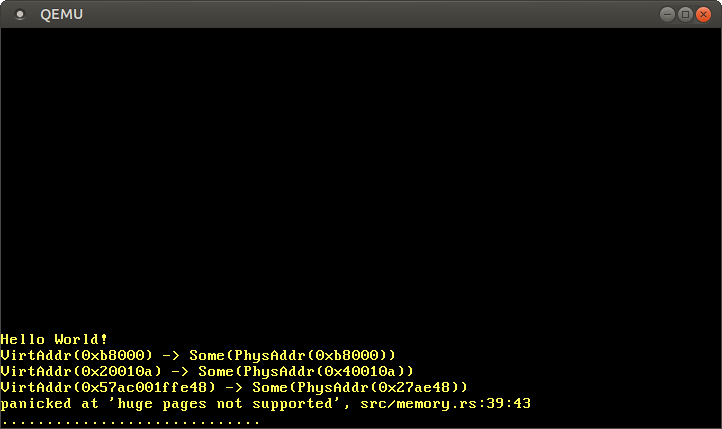
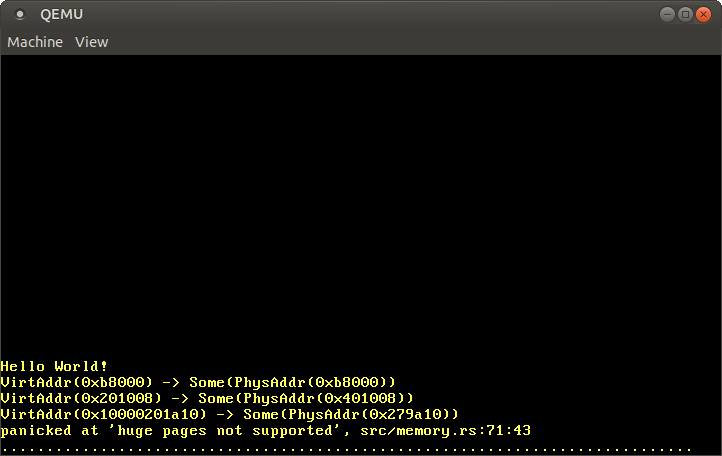
Improve implementation section of Paging Implementation post

Changed region(s): [[0.0, 0.7879, 0.7313, 0.9697], [0.0, 0.0, 1.0, 0.1212]]

diff --git a/blog/content/second-edition/posts/09-paging-implementation/index.md b/blog/content/second-edition/posts/09-paging-implementation/index.md
@@ -459,9 +459,9 @@ We see that there are various non-empty entries, which all map to different leve
 To traverse the page tables further and take a look at a level 3 table, we can take the mapped frame of an entry convert it to a virtual address again:
 
 ```rust
-// in the for loop in src/main.rs
+// in the `for` loop in src/main.rs
 
-use x86_64::{structures::paging::PageTable, VirtAddr};
+use x86_64::structures::paging::PageTable;
 
 if !entry.is_unused() {
     println!("L4 Entry {}: {:?}", i, entry);
@@ -492,7 +492,7 @@ For translating a virtual to a physical address, we have to traverse the four-le
 ```rust
 // in src/memory.rs
 
-use x86_64::{PhysAddr, VirtAddr};
+use x86_64::PhysAddr;
 
 /// Translates the given virtual address to the mapped physical address, or
 /// `None` if the address is not mapped.
@@ -568,6 +568,7 @@ Let's test our translation function by translating some addresses:
 // in src/main.rs
 
 fn kernel_main(boot_info: &'static BootInfo) -> ! {
+    // new imports
     use blog_os::memory::translate_addr;
     use x86_64::VirtAddr;
 
@@ -579,9 +580,9 @@ fn kernel_main(boot_info: &'static BootInfo) -> ! {
         // the identity-mapped vga buffer page
         0xb8000,
         // some code page
-        0x20010a,
+        0x201008,
         // some stack page
-        0x57ac_001f_fe48,
+        0x0100_0020_1a10,
         // virtual address mapped to physical address 0
         boot_info.physical_memory_offset,
     ];
@@ -598,9 +599,13 @@ fn kernel_main(boot_info: &'static BootInfo) -> ! {
 
 When we run it, we see the following output:
 
-![0xb8000 -> 0xb8000, 0x20010a -> 0x40010a, 0x57ac001ffe48 -> 0x27be48, "panicked at 'huge pages not supported'](qemu-translate-addr.png)
+![0xb8000 -> 0xb8000, 0x201008 -> 0x401008, 0x10000201a10 -> 0x279a10, "panicked at 'huge pages not supported'](qemu-translate-addr.png)
 
-As expected, the identity-mapped address `0xb8000` translates to the same physical address. The code page and the stack page translate to some arbitrary physical addresses, which depend on how the bootloader created the initial mapping for our kernel. The translation of the `physical_memory_offset` should point to physical address `0`, but the translation fails because the mapping uses huge pages for efficiency. Future bootloader version might use the same optimization for kernel and stack pages.
+As expected, the identity-mapped address `0xb8000` translates to the same physical address. The code page and the stack page translate to some arbitrary physical addresses, which depend on how the bootloader created the initial mapping for our kernel. It's worth noting that the last 12 bits always stay the same after translation, which makes sense because these bits are the [_page offset_] and not part of the translation.
+
+[_page offset_]: ./second-edition/posts/08-paging-introduction/index.md#paging-on-x86-64
+
+Since each physical address can be accessed by adding the `physical_memory_offset`, the translation of the `physical_memory_offset` address itself should point to physical address `0`. However, the translation fails because the mapping uses huge pages for efficiency, which is not supported in our implementation yet.
 
 ### Using `OffsetPageTable`
 
@@ -618,7 +623,7 @@ The base of the abstraction are two traits that define various page table mappin
 [`translate_addr`]: https://docs.rs/x86_64/0.7.5/x86_64/structures/paging/mapper/trait.MapperAllSizes.html#method.translate_addr
 [`translate`]: https://docs.rs/x86_64/0.7.5/x86_64/structures/paging/mapper/trait.MapperAllSizes.html#tymethod.translate
 
-The traits only define the interface, they don't provide any implementation. The `x86_64` crate currently provides three types that implement the traits with different requirements. The [`OffsetPageTable`] type assumes that the complete physical memory is mapped to the virtual address space at some offset. The [`MappedPageTable`] is a bit more flexible: It only requires that each page table frame is mapped to the virtual address space at a calculatable address. Finally, the [`RecursivePageTable`] type can be used to access page table frames through [recursive page tables](#recursive-page-tables).
+The traits only define the interface, they don't provide any implementation. The `x86_64` crate currently provides three types that implement the traits with different requirements. The [`OffsetPageTable`] type assumes that the complete physical memory is mapped to the virtual address space at some offset. The [`MappedPageTable`] is a bit more flexible: It only requires that each page table frame is mapped to the virtual address space at a calculable address. Finally, the [`RecursivePageTable`] type can be used to access page table frames through [recursive page tables](#recursive-page-tables).
 
 [`OffsetPageTable`]: https://docs.rs/x86_64/0.7.5/x86_64/structures/paging/mapper/struct.OffsetPageTable.html
 [`MappedPageTable`]: https://docs.rs/x86_64/0.7.5/x86_64/structures/paging/mapper/struct.MappedPageTable.html
@@ -627,8 +632,7 @@ The traits only define the interface, they don't provide any implementation. The
 In our case, the bootloader maps the complete physical memory at an virtual address specfied by the `physical_memory_offset` variable, so we can use the `OffsetPageTable` type. To initialize it, we create a new `init` function in our `memory` module:
 
 ```rust
-use x86_64::structures::paging::{PhysFrame, OffsetPageTable};
-use x86_64::{PhysAddr, VirtAddr};
+use x86_64::structures::paging::OffsetPageTable;
 
 /// Initialize a new OffsetPageTable.
 ///
@@ -646,8 +650,6 @@ unsafe fn active_level_4_table(physical_memory_offset: VirtAddr)
     -> &'static mut PageTable
 {…}
 ```
-
-[`impl Trait`]: https://doc.rust-lang.org/book/ch10-02-traits.html#returning-traits
 
 The function takes the `physical_memory_offset` as an argument and returns a new `OffsetPageTable` instance with a `'static` lifetime. This means that the instance stays valid for the complete runtime of our kernel. In the function body, we first call the `active_level_4_table` function to retrieve a mutable reference to the level 4 page table. We then invoke the [`OffsetPageTable::new`] function with this reference. As the second parameter, the `new` function expects the virtual address at which the mapping of the physical memory starts, which is given in the `physical_memory_offset` variable.
 
@@ -669,7 +671,7 @@ fn kernel_main(boot_info: &'static BootInfo) -> ! {
 
     let phys_mem_offset = VirtAddr::new(boot_info.physical_memory_offset);
     // new: initialize a mapper
-    let mut mapper = unsafe { memory::init(phys_mem_offset) };
+    let mapper = unsafe { memory::init(phys_mem_offset) };
 
     let addresses = […]; // same as before
 
@@ -684,11 +686,17 @@ fn kernel_main(boot_info: &'static BootInfo) -> ! {
 }
 ```
 
+We need to import the `MapperAllSizes` trait in order to use the [`translate_addr`] method it provides.
+
 When we run it now, we see the same translation results as before, with the difference that the huge page translation now also works:
 
-![0xb8000 -> 0xb8000, 0x20010a -> 0x40010a, 0x57ac001ffe48 -> 0x27be48, 0xfffffc0000000000 -> 0x0](qemu-mapper-translate-addr.png)
+![0xb8000 -> 0xb8000, 0x201008 -> 0x401008, 0x10000201a10 -> 0x279a10, 0x18000000000 -> 0x0](qemu-mapper-translate-addr.png)
 
-As expected the virtual address `physical_memory_offset` translates to the physical address `0x0`. By using the translation function of the `MappedPageTable` type we can spare ourselves the work of implementing huge page support. We also have access to other page functions such as `map_to`, which we will use in the next section. At this point we no longer need our `memory::translate_addr` function, so you can delete it if you want.
+As expected, the translations of `0xb8000` and the code and stack addresses stay the same as with our own translation function. Additionally, we now see that the virtual address `physical_memory_offset` is mapped to the physical address `0x0`.
+
+By using the translation function of the `MappedPageTable` type we can spare ourselves the work of implementing huge page support. We also have access to other page functions such as `map_to`, which we will use in the next section.
+
+At this point we no longer need our `memory::translate_addr` function, so we can delete it.
 
 ### Creating a new Mapping
 
@@ -701,19 +709,22 @@ We will use the [`map_to`] function of the [`Mapper`] trait for our implementati
 
 #### A `create_example_mapping` Function
 
-The first step of our implementation is to create a new `create_example_mapping` function that maps a given page to `0xb8000`, the physical frame of the VGA text buffer. We choose that frame because it allows us to easily test if the mapping was created correctly: We just need to write to the newly mapped page and see whether we see the write appear on the screen.
+The first step of our implementation is to create a new `create_example_mapping` function that maps a given virtual page to `0xb8000`, the physical frame of the VGA text buffer. We choose that frame because it allows us to easily test if the mapping was created correctly: We just need to write to the newly mapped page and see whether we see the write appear on the screen.
 
 The `create_example_mapping` function looks like this:
 
 ```rust
 // in src/memory.rs
 
-use x86_64::structures::paging::{Page, Size4KiB, Mapper, FrameAllocator};
+use x86_64::{
+    PhysAddr,
+    structures::paging::{Page, PhysFrame, Mapper, Size4KiB, FrameAllocator}
+};
 
 /// Creates an example mapping for the given page to frame `0xb8000`.
 pub fn create_example_mapping(
     page: Page,
-    mapper: &mut impl Mapper<Size4KiB>,
+    mapper: &mut OffsetPageTable,
     frame_allocator: &mut impl FrameAllocator<Size4KiB>,
 ) {
     use x86_64::structures::paging::PageTableFlags as Flags;
@@ -728,16 +739,18 @@ pub fn create_example_mapping(
 }
 ```
 
-In addition to the `page` that should be mapped, the function expects a `mapper` instance and a `frame_allocator`. The `mapper` is a type that implements the `Mapper<Size4KiB>` trait, which provides the `map_to` method. The generic `Size4KiB` parameter is needed because the [`Mapper`] trait is [generic] over the [`PageSize`] trait to work with both standard 4KiB pages and huge 2MiB/1GiB pages. We only want to create 4KiB pages, so we can use `Mapper<Size4KiB>` instead of requiring `MapperAllSizes`.
+In addition to the `page` that should be mapped, the function expects a mutable reference to an `OffsetPageTable` instance and a `frame_allocator`. The `frame_allocator` parameter uses the [`impl Trait`][impl-trait-arg] syntax to be [generic] over all types that implement the [`FrameAllocator`] trait. The trait is generic over the [`PageSize`] trait to work with both standard 4KiB pages and huge 2MiB/1GiB pages. We only want to create a 4KiB mapping, so we set the generic parameter to `Size4KiB`.
 
+[impl-trait-arg]: https://doc.rust-lang.org/book/ch10-02-traits.html#traits-as-parameters
 [generic]: https://doc.rust-lang.org/book/ch10-00-generics.html
+[`FrameAllocator`]: https://docs.rs/x86_64/0.7.5/x86_64/structures/paging/trait.FrameAllocator.html
 [`PageSize`]: https://docs.rs/x86_64/0.7.5/x86_64/structures/paging/page/trait.PageSize.html
 
-For the mapping, we set the `PRESENT` flag because it is required for all valid entries and the `WRITABLE` flag to make the mapped page writable. Calling `map_to` is unsafe because it's possible to break memory safety with invalid arguments, so we need to use an `unsafe` block. For a list of all possible flags, see the [_Page Table Format_] section of the previous post.
+For the mapping, we set the `PRESENT` flag because it is required for all valid entries and the `WRITABLE` flag to make the mapped page writable. Calling [`map_to`] is unsafe because it's possible to break memory safety with invalid arguments, so we need to use an `unsafe` block. For a list of all possible flags, see the [_Page Table Format_] section of the previous post.
 
 [_Page Table Format_]: ./second-edition/posts/08-paging-introduction/index.md#page-table-format
 
-The `map_to` function can fail, so it returns a [`Result`]. Since this is just some example code that does not need to be robust, we just use [`expect`] to panic when an error occurs. On success, the function returns a [`MapperFlush`] type that provides an easy way to flush the newly mapped page from the translation lookaside buffer (TLB) with its [`flush`] method. Like `Result`, the type uses the [`#[must_use]`][must_use] attribute to emit a warning when we accidentally forget to use it.
+The [`map_to`] function can fail, so it returns a [`Result`]. Since this is just some example code that does not need to be robust, we just use [`expect`] to panic when an error occurs. On success, the function returns a [`MapperFlush`] type that provides an easy way to flush the newly mapped page from the translation lookaside buffer (TLB) with its [`flush`] method. Like `Result`, the type uses the [`#[must_use]`][must_use] attribute to emit a warning when we accidentally forget to use it.
 
 [`Result`]: https://doc.rust-lang.org/core/result/enum.Result.html
 [`expect`]: https://doc.rust-lang.org/core/result/enum.Result.html#method.expect
@@ -747,7 +760,7 @@ The `map_to` function can fail, so it returns a [`Result`]. Since this is just s
 
 #### A dummy `FrameAllocator`
 
-To be able to call `create_example_mapping` we need to create a `FrameAllocator` first. As noted above, the difficulty of creating a new mapping depends on the virtual page that we want to map. In the easiest case, the level 1 page table for the page already exists and we just need to write a single entry. In the most difficult case, the page is in a memory region for that no level 3 exists yet so that we need to create new level 3, level 2 and level 1 page tables first.
+To be able to call `create_example_mapping` we need to create a type that implements the `FrameAllocator` trait first. As noted above, the trait is responsible for allocating frames for new page table if they are needed by `map_to`.
 
 Let's start with the simple case and assume that we don't need to create new page tables. For this case, a frame allocator that always returns `None` suffices. We create such an `EmptyFrameAllocator` for testing our mapping function:
 
@@ -766,20 +779,39 @@ unsafe impl FrameAllocator<Size4KiB> for EmptyFrameAllocator {
 
 Implementing the `FrameAllocator` is unsafe because the implementer must guarantee that the allocator yields only unused frames. Otherwise undefined behavior might occur, for example when two virtual pages are mapped to the same physical frame. Our `EmptyFrameAllocator` only returns `None`, so this isn't a problem in this case.
 
-We now need to find a page that we can map without creating new page tables. The bootloader loads itself in the first megabyte of the virtual address space, so we know that a valid level 1 table exists for this region. We can choose any unused page in this memory region for our example mapping, for example, the page at address `0x1000`.
+#### Choosing a Virtual Page
 
-To test our mapping function, we first map page `0x1000` and then try to write to the screen through that mapping:
+We now have a simple frame allocator that we can pass to our `create_example_mapping` function. However, the allocator always returns `None`, so this will only work if no additional page table frames are needed for creating the mapping. To understand when additional page table frames are needed and when not, let's consider an example:
+
+![A virtual and a physical address space with a single mapped page and the page tables of all four levels](required-page-frames-example.svg)
+
+The graphic shows the virtual address space on the left, the physical address space on the right, and the page tables in between. The page tables are stored in physical memory frames, indicated by the dashed lines. The virtual address space contains a single mapped page at address `0x803fe00000`, marked in blue. To translate this page to its frame, the CPU walks the 4-level page table until it reaches the frame at address 36 KiB.
+
+Additionally, the graphic shows the physical frame of the VGA text buffer in red. Our goal is to map a previously unmapped virtual page to this frame using our `create_example_mapping` function. Since our `EmptyFrameAllocator` always returns `None`, we want to create the mapping so that no additional frames are needed from the allocator. This depends on the virtual page that we select for the mapping.
+
+The graphic shows two canditate pages in the virtual address space, both marked in yellow. One page is at address `0x803fdfd000`, which is 3 pages before the mapped page (in blue). While the level 4 and level 3 page table indices are the same as for the blue page, the level 2 and level 1 indices are different (see the [previous post][page-table-indices]). The different index into the level 2 table means that a different level 1 table is used for this page. Since this level 1 table does not exist yet, we would need to create it if we chose that page for our example mapping, which would require an additional unused physical frame. In contrast, the second candidate page at address `0x803fe02000` does not have this problem because it uses the same level 1 page table than the blue page. Thus, all required page tables already exist.
+
+[page-table-indices]: ./second-edition/posts/08-paging-introduction/index.md#paging-on-x86-64
+
+In summary, the difficulty of creating a new mapping depends on the virtual page that we want to map. In the easiest case, the level 1 page table for the page already exists and we just need to write a single entry. In the most difficult case, the page is in a memory region for that no level 3 exists yet so that we need to create new level 3, level 2 and level 1 page tables first.
+
+For calling our `create_example_mapping` function with the `EmptyFrameAllocator`, we need to choose a page for that all page tables already exist. To find such a page, we can utilize the fact that the bootloader loads itself in the first megabyte of the virtual address space. This means that a valid level 1 table exists for all pages this region. Thus, we can choose any unused page in this memory region for our example mapping, such as the page at address `0`. Normally, this page should stay unused to guarantee that dereferencing a null pointer causes a page fault, so we know that the bootloader leaves it unmapped.
+
+#### Creating the Mapping
+
+We now have all the required parameters for calling our `create_example_mapping` function, so let's modify our `kernel_main` function to map the page at virtual address `0`. Since we map the page to the frame of the VGA text buffer, we should be able to write to the screen through it afterwards. The implementation looks like this:
 
 ```rust
 // in src/main.rs
 
 fn kernel_main(boot_info: &'static BootInfo) -> ! {
     use blog_os::memory;
-    use x86_64::{structures::paging::Page, VirtAddr};
+    use x86_64::{structures::paging::Page, VirtAddr}; // new import
 
     […] // hello world and blog_os::init
 
-    let mut mapper = unsafe { memory::init(boot_info.physical_memory_offset) };
+    let phys_mem_offset = VirtAddr::new(boot_info.physical_memory_offset);
+    let mut mapper = unsafe { memory::init(phys_mem_offset) };
     let mut frame_allocator = memory::EmptyFrameAllocator;
 
     // map an unused page
@@ -805,9 +837,9 @@ When we run it in QEMU, we see the following output:
 
 ![QEMU printing "It did not crash!" with four completely white cells in the middle of the screen](qemu-new-mapping.png)
 
-The _"New!"_ on the screen is by our write to page `0x1000`, which means that we successfully created a new mapping in the page tables.
+The _"New!"_ on the screen is by our write to page `0`, which means that we successfully created a new mapping in the page tables.
 
-Creating that mapping only worked because there was already a level 1 table for mapping page `0x1000`. When we try to map a page for that no level 1 table exists yet, the `map_to` function fails because it tries to allocate frames from the `EmptyFrameAllocator` for creating new page tables. We can see that happen when we try to map page `0xdeadbeaf000` instead of `0x1000`:
+Creating that mapping only worked because the level 1 table responsible for the page at address `0` already exists. When we try to map a page for that no level 1 table exists yet, the `map_to` function fails because it tries to allocate frames from the `EmptyFrameAllocator` for creating new page tables. We can see that happen when we try to map page `0xdeadbeaf000` instead of `0`:
 
 ```rust
 // in src/main.rs
